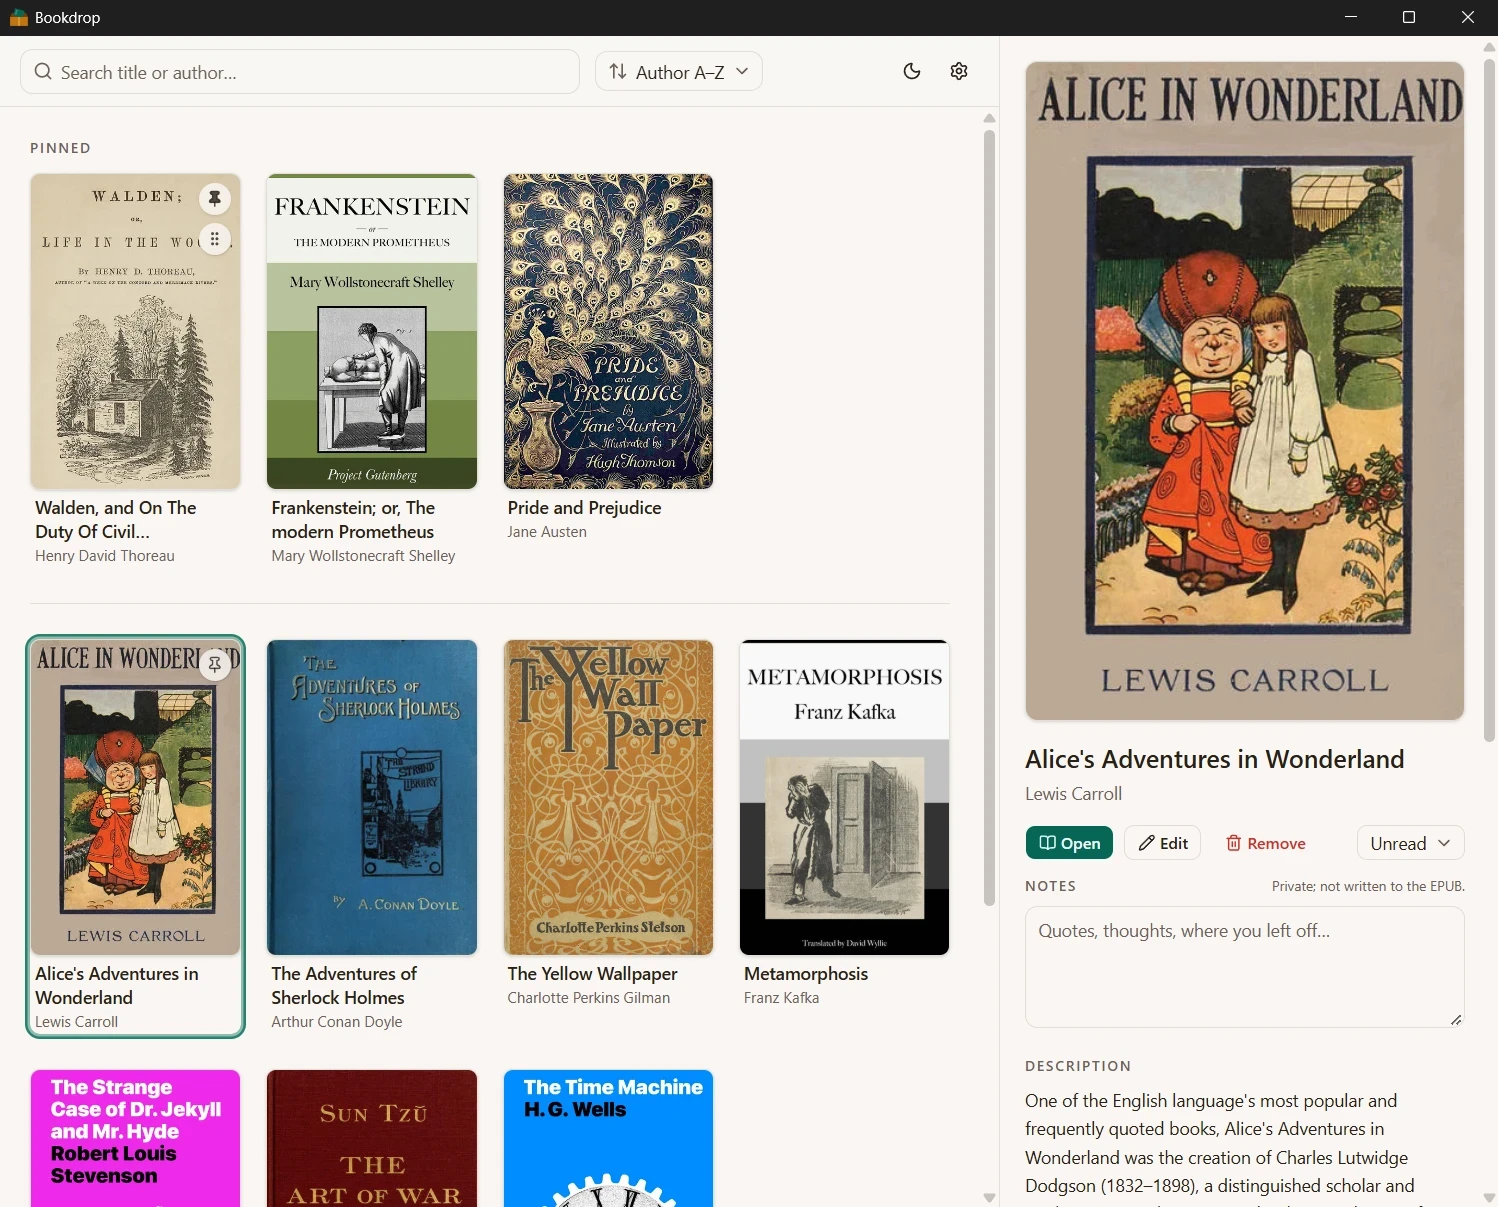
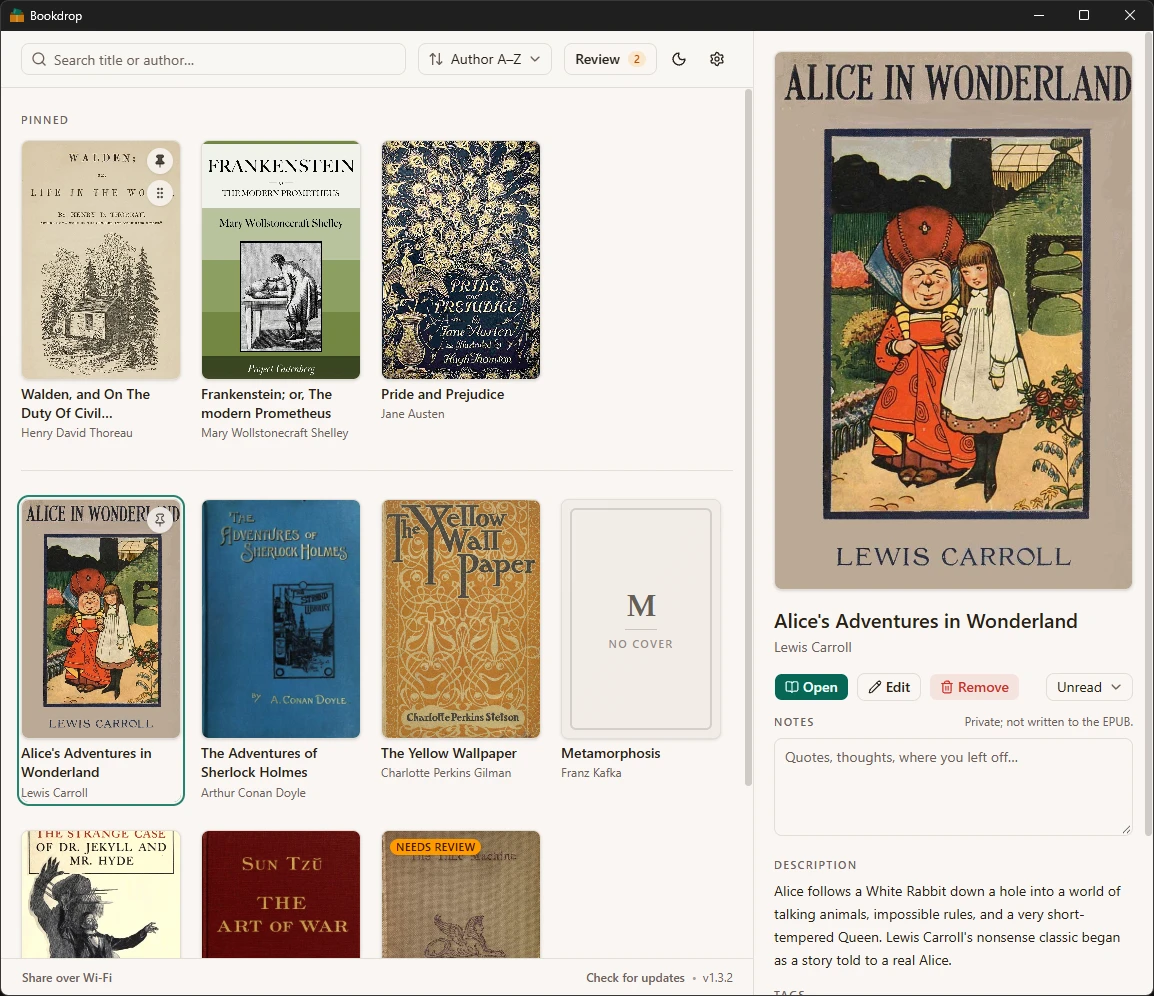
Refresh the README and screenshots
- Lead with download requirements and the library hero shot
- Add the file naming and Wi-Fi sections with new screenshots
- Update Review, keyboard, and narrow-window copy
- Tighten repeated data, missing-file, and sharing notes
- Add calibre troubleshooting for a missing or unconfigured install
- Fold build and signing details into a collapsible section

diff --git a/README.md b/README.md
@@ -6,46 +6,68 @@ converts them to EPUB, looks up the title, author, and cover, and saves them
 into a single folder you can copy to your e-reader. It also keeps a simple
 reading log for each book.
 
-**[Download the latest version from the Releases page](https://github.com/UmutSen2662/bookdrop/releases)**
+No account. No telemetry. The library itself is just EPUB files in a folder.
 
-![Bookdrop library grid](docs/screenshots/library.webp)
+**[Download the latest version from the Releases page](https://github.com/UmutSen2662/bookdrop/releases)** — Windows 10 or 11, 64-bit · [calibre](https://calibre-ebook.com/) required
+
+![Bookdrop library with a book selected and the details panel open](docs/screenshots/library.webp)
+
+*The library, with the details panel open.*
 
 ## What it does
 
 - **Adds books by drag and drop.** Files are converted to EPUB and filed
-  automatically. Anything that fails goes into a Needs attention list.
+  automatically. Anything that fails, or whose file later goes missing, is
+  listed in Needs attention.
 - **Fills in metadata and covers.** It looks up details from the file itself,
   Google Books, Open Library, and iTunes, and lets you pick the best match.
   Nothing changes in a book until you save.
+- **Finds what needs a second look.** The Review popover collects books whose
+  metadata is uncertain and books with no cover.
 - **Tracks reading.** Mark each book as Unread, Reading, or Finished, and add
   private notes. Notes are stored in Bookdrop's database, not inside the EPUB.
-- **Keeps one flat folder.** There are no author or series subfolders. If you
-  move the library folder, books left behind are flagged until you move them.
-- **Works with the keyboard.** Arrow keys move through the grid, `/` or
-  `Ctrl+F` jumps to search, and Escape clears search or the selection.
-- **Shares over Wi-Fi.** You can send books to a KOReader device on the same
-  network without a cable. See below.
+- **Keeps one flat folder.** There are no author or series subfolders. File
+  names come from a template you can change in Settings; see
+  [File names and the library folder](#file-names-and-the-library-folder).
+- **Works with the keyboard.** Arrow keys move through the grid. On a wide
+  window the details panel follows; on a narrow one, arrows only move focus and
+  Enter opens the book. `/` or `Ctrl+F` searches, and Escape clears the search
+  or closes the panel.
+- **Shares over Wi-Fi.** Send books to a KOReader device on the same network
+  without a cable. See
+  [Sending books to a reader over Wi-Fi](#sending-books-to-a-reader-over-wi-fi).
 
-![Metadata editor](docs/screenshots/metadata.webp)
+![Editing metadata and choosing a cover](docs/screenshots/metadata.webp)
 
-## How it works
+*Fetched values stay in the editor until you save.*
 
-- **Metadata is only saved when you ask.** Fetched values stay in the editor
-  until you press save.
-- **Reading status lives apart from the books.** Status, notes, and pins are in
-  a SQLite database, so the library folder is just a set of EPUB files that any
-  device can read.
-- **Missing files don't lose data.** If an EPUB disappears from the library, the
-  book keeps its metadata, status, and notes. It is flagged in the grid with
-  Open folder, Recheck, and Remove options.
-- **The network is off unless you turn sharing on.** Bookdrop only listens for
-  connections while sharing is active, and the catalog goes away when you close
-  the app.
+## File names and the library folder
+
+Bookdrop keeps one flat folder: no author or series subfolders. That makes the
+library easy to sync, copy, and hand to any e-reader.
+
+File names come from a template. The default is `{author} - {title}`, and
+Settings has tokens for author, title, series, series index, and year. A live
+preview shows the new names before anything moves, and **Rename library…**
+applies the template to books already in the folder.
+
+If you change the library folder, books left behind are marked **outside
+library** until you move them. Bookdrop re-attaches them by file hash on the
+next start.
+
+![File naming in Settings](docs/screenshots/settings.webp)
+
+*The File names section in Settings: template, tokens, preview, and Rename
+library.*
 
 ## Sending books to a reader over Wi-Fi
 
-Click **Share over Wi-Fi** in the footer. Bookdrop shows an address such as
-`http://192.168.1.5:8099/opds`, a Copy button, and how many books are included.
+Click **Share over Wi-Fi** in the footer. Bookdrop shows the address, a Copy
+button, and how many books are included.
+
+![Share over Wi-Fi with the address and Copy button](docs/screenshots/share.webp)
+
+*Share over Wi-Fi gives you the address to paste into KOReader.*
 
 1. On a device running [KOReader](https://koreader.rocks/), open the search
    menu, choose **OPDS catalog**, then **Add catalog**, and paste the address.
@@ -54,14 +76,15 @@ Click **Share over Wi-Fi** in the footer. Bookdrop shows an address such as
    Bookdrop or lose the network.
 
 The catalog includes every book that has a readable file, including books still
-in Needs attention. Books that are missing, failed to convert, or have no file
-are left out. The list is sorted by title and can be searched from KOReader.
+in Needs attention. Books without a readable file are left out. The list is
+sorted by title and can be searched from KOReader.
 
-Some things to know:
+<details>
+<summary>Network notes and troubleshooting</summary>
 
 - The connection is plain HTTP on your local network, with no password. Anyone
   on the same network who has the address can see and download the library. Only
-  share on networks you trust, and stop sharing when you are finished.
+  share on networks you trust.
 - The port is 8099, so it does not clash with calibre's server on 8080.
 - The first time, Windows may ask whether to let Bookdrop through the firewall.
   If the reader cannot connect, check that prompt, and check whether the network
@@ -72,7 +95,42 @@ Some things to know:
   reservation on your router. Bookdrop refreshes the list each time you open it.
 - Names like `terra.local` need mDNS support on the reader. Kindle firmware does
   not have it, so use the IP address on a Kindle.
-- Sharing only works while Bookdrop is open. Nothing is uploaded anywhere.
+- Nothing is uploaded anywhere.
+
+</details>
+
+## Your data
+
+- **Metadata is only written when you save.** Fetched values and candidate
+  covers stay in the editor until you click Save.
+- **Reading status, notes, and pins live in SQLite.** The library folder is just
+  files you can sync.
+- **Missing files do not lose their data.** If an EPUB disappears from the
+  library, the book keeps its metadata, status, and notes. It is flagged in the
+  grid with Open folder, Recheck, and Remove options.
+
+Bookdrop's own data (config, database, covers, temporary files) is stored in
+`%LOCALAPPDATA%\bookdrop`. The library folder can be anywhere you like, and you
+can sync it to any device.
+
+Back up that folder: it is the only copy of that data. Close Bookdrop, then copy
+it somewhere safe. EPUBs can be re-imported and covers can be regenerated, but
+the database cannot be rebuilt. To restore, close the app, put the folder back
+in place, and reopen Bookdrop. **Settings → About** opens the location for you.
+
+## Privacy
+
+Bookdrop has no telemetry and no account. Your files stay on your computer.
+
+When the app starts, it checks GitHub for a newer release. That request contains
+no library, account, or usage information. When you look up metadata, the book's
+title, author, or ISBN is sent to Google Books and Open Library (through calibre),
+and to iTunes and Open Library directly. Covers are downloaded from those
+services.
+
+Wi-Fi sharing is opt-in and stays on your local network. See
+[Sending books to a reader over Wi-Fi](#sending-books-to-a-reader-over-wi-fi)
+for the connection details, security notes, and how to stop it.
 
 ## Getting started
 
@@ -87,10 +145,15 @@ Bookdrop uses calibre's command-line tools (`ebook-meta`, `ebook-convert`, and
 `fetch-ebook-metadata`) to do the conversion and metadata work. calibre is not
 bundled with Bookdrop, so install it separately.
 
-### Install
+If Bookdrop cannot find calibre, dropping is disabled and a banner in the
+library tells you so. Open **Settings → Importing → calibre** to choose the
+calibre folder, recheck the detection, or reset the override. Installing
+calibre and putting it on `PATH` also works.
 
-Go to the [Releases page](https://github.com/UmutSen2662/bookdrop/releases) and
-download the latest installer.
+### Install and update
+
+Download the installer from the
+[Releases page](https://github.com/UmutSen2662/bookdrop/releases).
 
 Because the installer is not code-signed, Windows may show "Windows protected
 your PC." Click **More info**, then **Run anyway**.
@@ -108,8 +171,7 @@ Bookdrop updates itself. It checks GitHub shortly after you open it, and you can
 check manually with **Check for updates** in the footer. When a new version is
 ready, click **Update available** and the app will install it and restart.
 Versions before 1.1.0 did not have this feature, so install the latest release
-manually once. Your library and the data in `%LOCALAPPDATA%\bookdrop` are kept
-either way.
+manually once. Your library and Bookdrop's data are kept either way.
 
 ## Development
 
@@ -126,6 +188,25 @@ library of ten public-domain books. It never reads your real config, database,
 or library folder, and it is only available in development builds. Settings,
 the edit sheet, and the share popover all open for screenshots; actions that
 would touch files or start a server are inert.
+
+Common checks:
+
+```bat
+bun run test          :: Vitest: pipeline and helper tests
+bun run typecheck     :: TypeScript
+bun run lint          :: Biome formatting and linting
+cd src-tauri && cargo test
+```
+
+UI conventions live in [docs/ui.md](docs/ui.md). The repository contains no
+books. For manual testing, use your own files. `samples/` is git-ignored for
+local test files. `bun scripts/ingest.ts path\to\book.epub` runs the same steps
+as the app and writes to the configured library and database. Environment
+variables such as `BOOKDROP_HOME` and `BOOKDROP_LIBRARY` override the config for
+scripts and tests.
+
+<details>
+<summary>Build, sign, and publish a release</summary>
 
 To build an installer, checksums, and the updater manifest, set the signing key
 in the same window that runs the build:
@@ -166,20 +247,7 @@ When publishing a release, upload the NSIS installer, its `.sig` file,
 `SHA256SUMS.txt`, and `latest.json`. The app reads `latest.json` from the newest
 non-prerelease.
 
-Common checks:
-
-```bat
-bun run test          :: Vitest: pipeline and helper tests
-bun run typecheck     :: TypeScript
-bun run lint          :: Biome formatting and linting
-cd src-tauri && cargo test
-```
-
-The repository contains no books. For manual testing, use your own files.
-`samples/` is git-ignored for local test files. `bun scripts/ingest.ts path\to\book.epub`
-runs the same steps as the app and writes to the configured library and
-database. Environment variables such as `BOOKDROP_HOME` and `BOOKDROP_LIBRARY`
-override the config for scripts and tests.
+</details>
 
 ### Tech stack
 
@@ -188,33 +256,6 @@ override the config for scripts and tests.
 - **Data:** SQLite via `tauri-plugin-sql`
 - **Testing:** Vitest, Cargo test
 - **Tooling:** Bun, Biome
-
-## Your data
-
-Bookdrop's own data (config, database, covers, temporary files) is stored in
-`%LOCALAPPDATA%\bookdrop`. The library folder can be anywhere you like, and you
-can sync it to any device.
-
-Reading status, notes, and pins are only stored in the database, so back it up.
-Close Bookdrop, then copy the whole `%LOCALAPPDATA%\bookdrop` folder somewhere
-safe. EPUBs can be re-imported and covers can be regenerated, but the database
-cannot be rebuilt. To restore, close the app, put the folder back in place, and
-reopen Bookdrop. **Settings → About** opens the location for you.
-
-## Privacy
-
-Bookdrop has no telemetry and no account. Your files stay on your computer.
-
-When the app starts, it checks GitHub for a newer release. That request contains
-no library, account, or usage information. When you look up metadata, the book's
-title, author, or ISBN is sent to Google Books and Open Library (through calibre),
-and to iTunes and Open Library directly. Covers are downloaded from those
-services.
-
-Sharing over Wi-Fi is the only feature that listens on the network, and only
-while you have it turned on. The catalog and the EPUBs it serves stay on your
-local network. Nothing is uploaded. Anyone who can reach the address can see the
-catalog, so treat the address the way you would treat the library itself.
 
 ## Not affiliated with calibre
 
